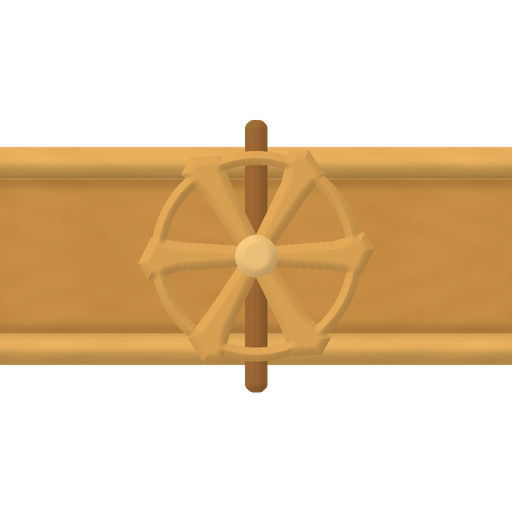
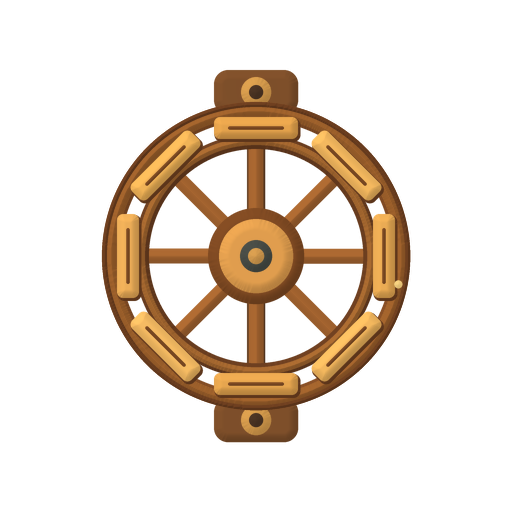
[skip ci] Haus und Garten: Paket F Wasserbau

diff --git a/assets/LIZENZEN.md b/assets/LIZENZEN.md
@@ -46,6 +46,19 @@ Am 3. November 2026 wurden alle 22 Körperteil-Illustrationen gemäß `assets/Ko
 
 Ebenfalls am 3. November 2026 wurden alle 34 Illustrationen für Körperfunktionen, Sinne, Dino-Animationen und Bedienelemente gemäß `assets/Koerper.csv` vollständig ersetzt. 24 Dateien sind neue `gpt-image-2`-Renderings über den Hermes-Adapter für ChatGPT/Codex OAuth; `high` wurde angefordert, für die ausgewählten Originale meldete der Server 21-mal `low` und dreimal `medium`, jeweils 1254 × 1254 und opak. Zehn Dateien sind frische lokale, deterministische Renderings aus der akzeptierten analytischen Paket-1-Quelle: vier Anatomie-Funktionsszenen, fünf Ebenenknöpfe und die Atmen-Szene. Die Atmen-Szene wurde ohne alte Rasterpixel vollständig aus Quellgeometrie aufgebaut und bestand die bindende Bedeutungsprüfung bei echten 70 und 80 px auf Creme und `#202020`. Alle 34 Dateien bestanden technische und visuelle Prüfungen; Szenen, Dinos, Symbole und Knöpfe zusätzlich in ihren vorgesehenen Darstellungsgrößen. Einzelhashes, tatsächliche Provider-Metadaten, Herkunft und Prüfstatus stehen in `assets/Koerper_Paket3_Provenienz.json` und zusammengefasst in `assets/Koerper_V2_Final.json`.
 
+### Haus und Garten – Nachlieferung
+
+Die Bildnachlieferung gemäß `assets/Haus_Garten.csv` umfasst 149 ausgelieferte Bilddateien in sechs Paketen. `gw_szene_garten_abend.jpg` wird auf ausdrückliche Eigentümeranweisung nicht ausgeliefert: Wenn die Datei fehlt, erzeugt die App die Abenddarstellung deckungsgleich durch Abdunkeln von `gw_szene_garten_tag.jpg`; es wurde kein Platzhalter erzeugt.
+
+- **Paket A:** gemischte synthetische Ausgangsbilder und lokale, deterministische Geometrie-/Lichtkorrekturen. Das Garten-Tagbild ergänzt ausschließlich zwei Fenster und einen Kamin innerhalb vorab deklarierter Masken; außerhalb dieser Masken blieben die nativen Pixel unverändert.
+- **Paket B:** sieben neue `gpt-image-2`-Generierungen über den Hermes-Adapter für ChatGPT/Codex OAuth. `high` wurde angefordert, der Server meldete für alle sieben ausgewählten Originale `low`. Die vier verbindlichen Projekt-Stilreferenzen wurden in jedem Request verwendet.
+- **Paket C:** 98 lokale, deterministische Blender-Renderings einschließlich 44 semantischer weißer Masken. Die kanonischen Kandidaten wurden byteidentisch reproduziert und auf die Manifestgröße transformiert.
+- **Paket D:** 24 Motive aus dokumentierten `gpt-image-2`-Generierungen und lokaler technischer Verarbeitung; für 26 erfolgreiche Service-Requests einschließlich verworfener Lavendel-Zwischenstände meldete der Server 21-mal `low` und fünfmal `medium`. Der ausgelieferte Lavendel wurde anschließend lokal in Blender neu aufgebaut.
+- **Paket E:** sechs Tier-/Baumhausmotive mit registrierten lokalen Korrekturen. Das stehende Reh verwendet die ausgewählte Augenvariante `signal-16-56`; Baumhaus-Stufe 3 enthält keine Wimpelkette.
+- **Paket F:** neun lokale, deterministische Python-/Pillow-/NumPy-/SciPy-Renderings beziehungsweise technische Ableitungen. Wasserrad und Schleuse sind reine transparente Bauteile ohne mitgemalte Rinne oder Wasser. Das Rad besitzt einen geschlossenen Außenring, acht gerade Speichen und acht gerade Schaufelbretter; frühere hakenförmige Entwürfe wurden verworfen und sind nicht Bestandteil des Repositories.
+
+Alle ausgelieferten Dateien bestanden die dokumentierte technische Endprüfung; die bild- und hashgebundene Herkunft steht in `assets/Haus_Garten_Paket_A_Provenienz.json` bis `assets/Haus_Garten_Paket_F_Provenienz.json`. Die synthetische Herkunft wird nicht als Fotografie oder menschliche Illustration dargestellt.
+
 ## Audio: «Mein Körper»
 
 Dieser Stand enthält sechs gehörte und vom App-Eigentümer freigegebene Körperklänge gemäß `assets/Koerper_Klaenge.csv`. Alle Dateien liegen als M4A/AAC-LC, mono und mit 44,1 kHz vor; die finalen Hashes, technischen Messwerte und Entscheidungen stehen in `assets/Koerper_Audiofreigabe.json`, die Quellenzuordnung in `assets/Koerper_Quellen.csv`.
